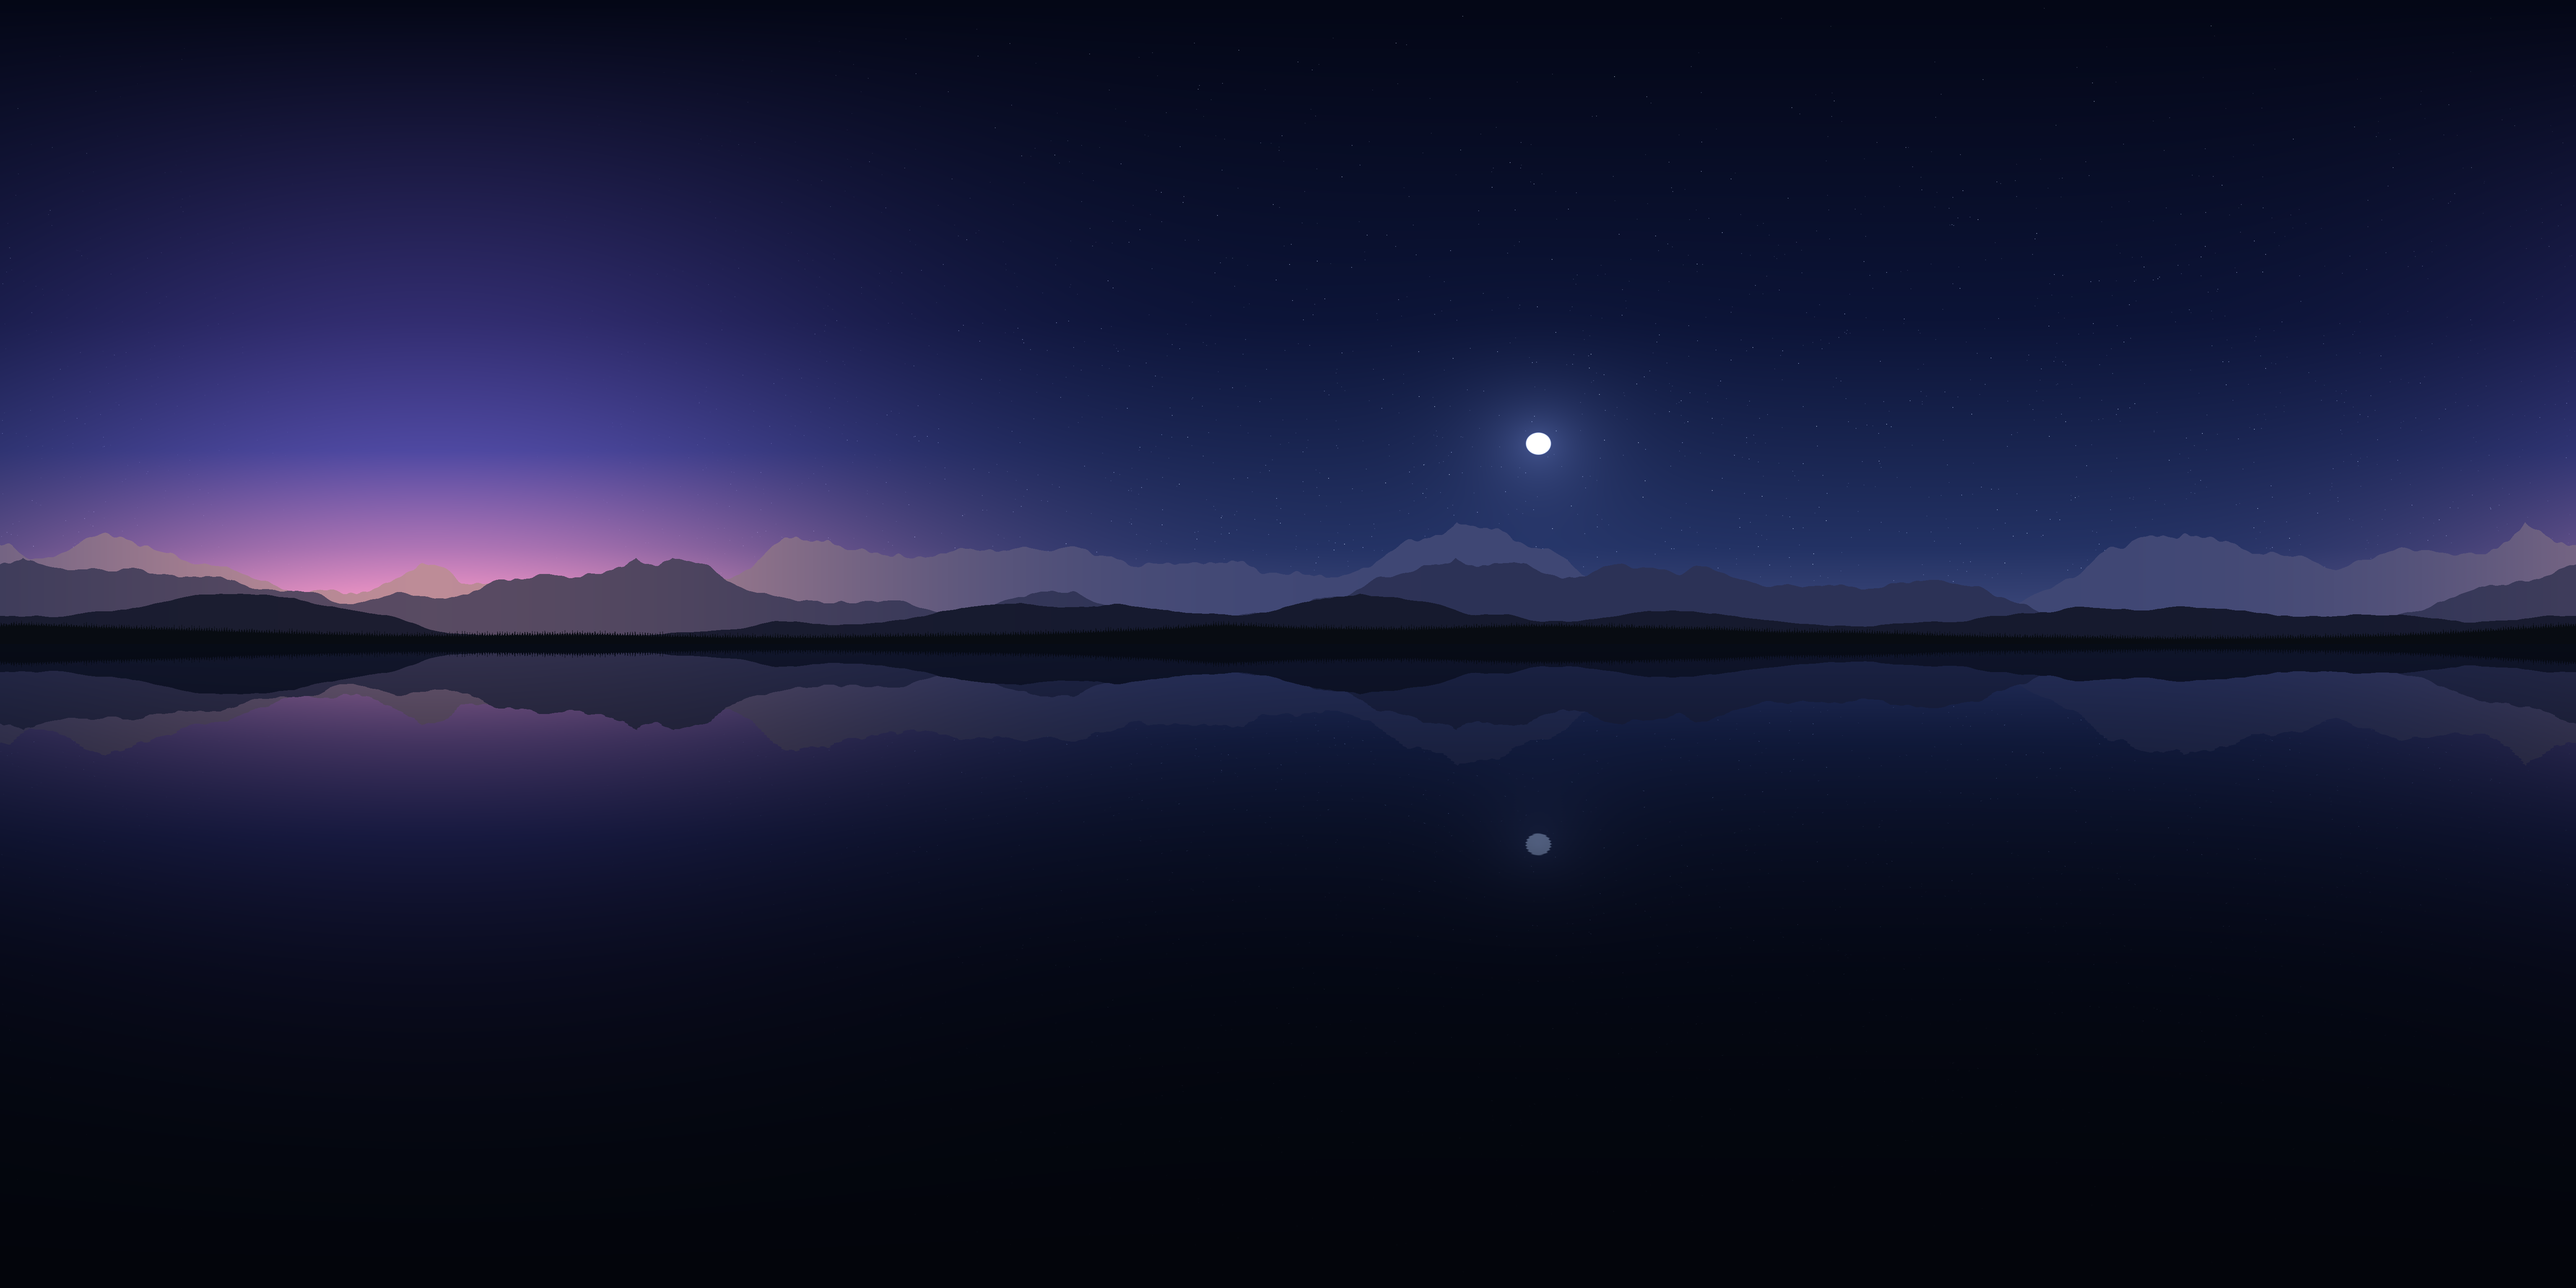
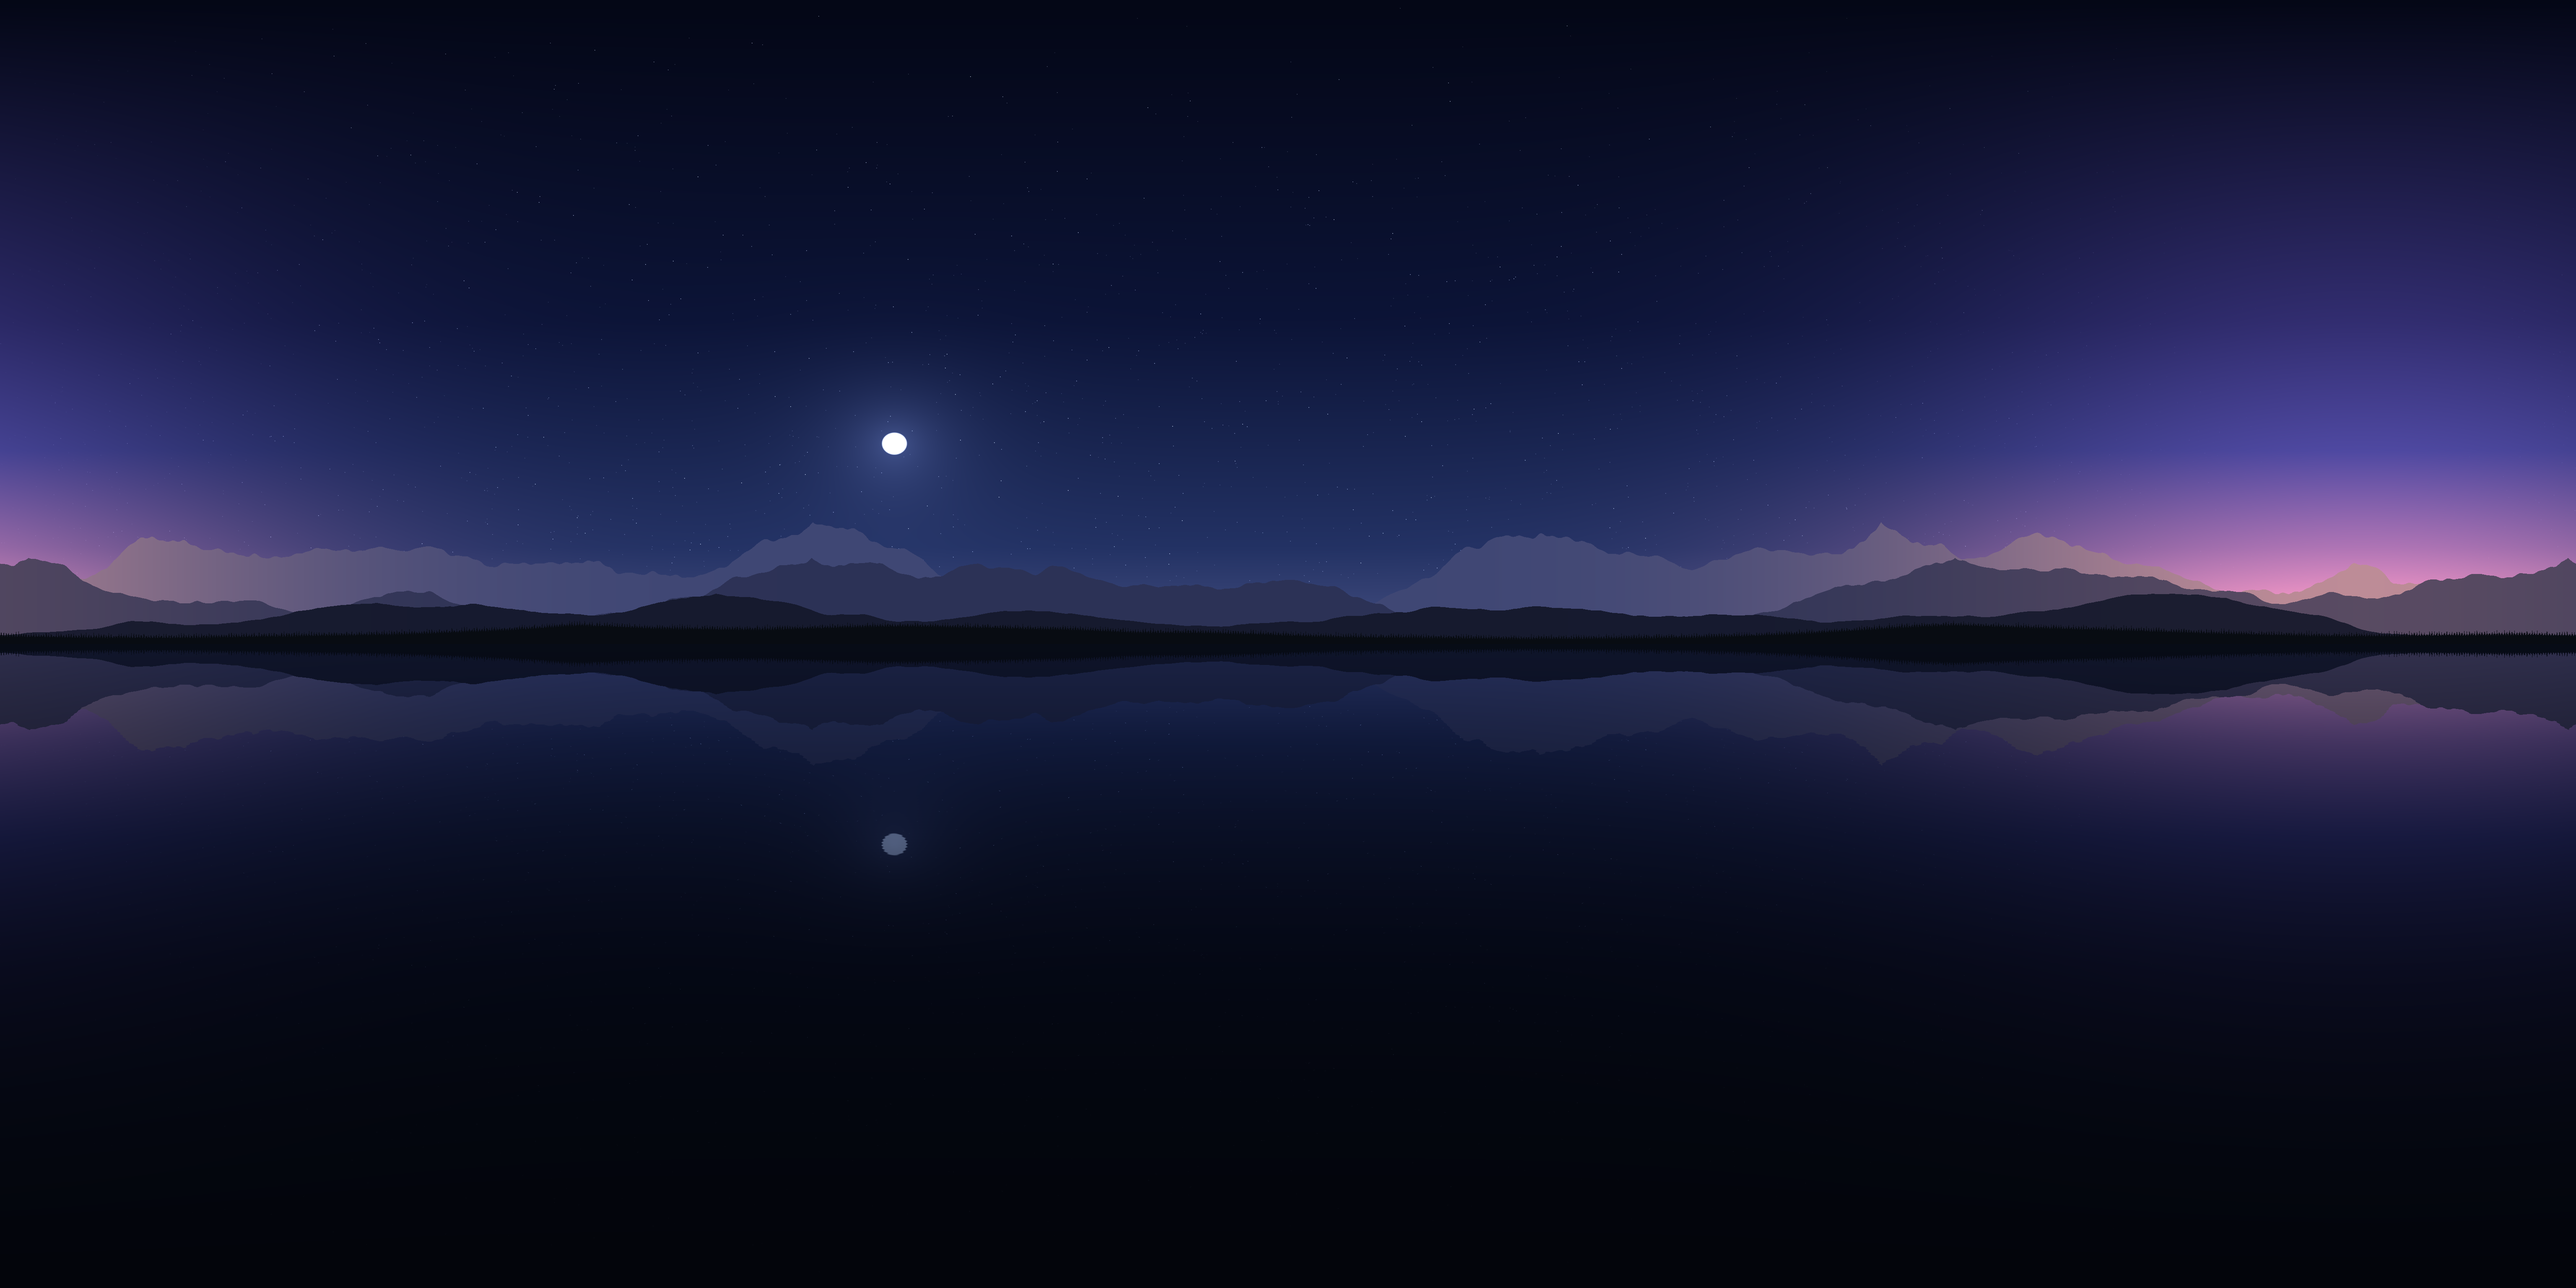
Turn the backgrounds so their front is straight ahead
Breezy shows a panorama's middle 90 degrees to the right, so pano.save()
rolls each image a quarter turn; vaporwave's sun is now straight ahead.

Changed region(s): [[0.0, 0.0938, 1.0, 0.6562], [0.5625, 0.3125, 0.625, 0.375]]

diff --git a/backgrounds/pano.py b/backgrounds/pano.py
@@ -2,19 +2,22 @@
 
 The backgrounds are 360-degree equirectangular panoramas: x runs once around
 you (longitude), y from straight up (top) to straight down (bottom), with the
-horizon across the middle. The middle of the image is straight ahead.
+horizon across the middle. In the generators longitude 0 is straight ahead;
+Breezy shows the image's middle 90 degrees to your right, so save() turns the
+image a quarter turn to bring longitude 0 in front.
 Needs Pillow and numpy (e.g. in a venv: pip install pillow numpy).
 """
 import numpy as np
 from PIL import Image, ImageFilter
 
 W, H = 6144, 3072
+TURN = -W // 4  # pixels to roll the finished image (see above)
 PX_PER_DEG = W / 360
 
 
 def grid():
     """Longitude and latitude (radians) of every pixel centre, as 2-D arrays.
-    Longitude 0 is the middle of the image (straight ahead)."""
+    Longitude 0 is the middle of the image (straight ahead once saved)."""
     lon = (np.arange(W, dtype=np.float32) + 0.5) / W * 2 * np.pi - np.pi
     lat = np.pi / 2 - (np.arange(H, dtype=np.float32) + 0.5) / H * np.pi
     return np.meshgrid(lon, lat)
@@ -60,5 +63,6 @@ def bloom(img, radius=6, strength=0.8):
 def save(arr_or_img, path):
     img = arr_or_img if isinstance(arr_or_img, Image.Image) else \
         Image.fromarray(np.clip(arr_or_img, 0, 255).astype(np.uint8))
-    img.convert("RGB").save(path, optimize=True)
+    img = Image.fromarray(np.roll(np.asarray(img.convert("RGB")), TURN, axis=1))
+    img.save(path, optimize=True)
     print(f"wrote {path} ({img.width}x{img.height})")
